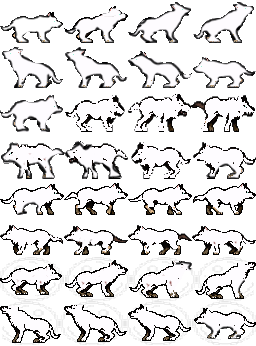
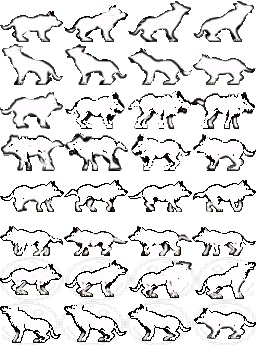
update readme file, enemy png & enemyclass

diff --git a/NYP_Framework/App/Source/Scene2D/SnowEnemy2DSWB.cpp b/NYP_Framework/App/Source/Scene2D/SnowEnemy2DSWB.cpp
@@ -93,7 +93,7 @@ bool SnowEnemy2DSWB::Init(void)
 	// Get the handler to the CSettings instance
 	cSettings = CSettings::GetInstance();
 	// Get the handler to the Camera2D instance
-//	camera2D = Camera2D::GetInstance();
+	camera2D = Camera2D::GetInstance();
 
 	// Get the handler to the CSoundController instance
 	cSoundController = CSoundController::GetInstance();
@@ -116,6 +116,8 @@ bool SnowEnemy2DSWB::Init(void)
 
 	// Create and initialise the CPlayer2D
 	cPlayer2D = CPlayer2D::GetInstance();
+
+	cInventoryManagerPlanet = CInventoryManagerPlanet::GetInstance();
 
 	glGenVertexArrays(1, &VAO);
 	glBindVertexArray(VAO);
@@ -441,43 +443,21 @@ void SnowEnemy2DSWB::Render(void)
 	unsigned int colorLoc = glGetUniformLocation(CShaderManager::GetInstance()->activeShader->ID, "runtimeColour");
 	glUniformMatrix4fv(transformLoc, 1, GL_FALSE, glm::value_ptr(transform));
 
+
 	transform = glm::mat4(1.0f); // make sure to initialize matrix to identity matrix first
-	//transform = glm::translate(transform, glm::vec3(vec2UVCoordinate.x,
-	//	vec2UVCoordinate.y,
-	//	0.0f));
-	//// Update the shaders with the latest transform
-	//glUniformMatrix4fv(transformLoc, 1, GL_FALSE, glm::value_ptr(transform));
-	//glUniform4fv(colorLoc, 1, glm::value_ptr(runtimeColour));
+	glm::vec2 offset = glm::i32vec2(float(cSettings->NUM_TILES_XAXIS / 2.0f), float(cSettings->NUM_TILES_YAXIS / 2.0f));
+	glm::vec2 cameraPos = camera2D->getPos();
 
-	//// Get the texture to be rendered
-	//glBindTexture(GL_TEXTURE_2D, iTextureID);
+	glm::vec2 IndexPos = vec2Index;
 
-	//// Render the tile
-	////glDrawElements(GL_TRIANGLES, 6, GL_UNSIGNED_INT, 0);
-	////quadMesh->Render();
+	glm::vec2 actualPos = IndexPos - cameraPos + offset;
+	actualPos = cSettings->ConvertIndexToUVSpace(actualPos) * camera2D->getZoom();
+	actualPos.x += i32vec2NumMicroSteps.x * cSettings->MICRO_STEP_XAXIS;
+	actualPos.y += i32vec2NumMicroSteps.y * cSettings->MICRO_STEP_YAXIS;
 
-	////CS: Render the animated sprite
-	//animatedSprites->Render();
+	transform = glm::translate(transform, glm::vec3(actualPos.x, actualPos.y, 0.f));
+	transform = glm::scale(transform, glm::vec3(camera2D->getZoom()));
 
-	//glBindVertexArray(0);
-
-	//transform = glm::mat4(1.0f); // make sure to initialize matrix to identity matrix first
-	//glm::vec2 offset = glm::i32vec2(float(cSettings->NUM_TILES_XAXIS / 2.0f), float(cSettings->NUM_TILES_YAXIS / 2.0f));
-	//glm::vec2 cameraPos = camera2D->getPos();
-
-	//glm::vec2 IndexPos = vec2Index;
-
-	//glm::vec2 actualPos = IndexPos - cameraPos + offset;
-	//actualPos = cSettings->ConvertIndexToUVSpace(actualPos) * camera2D->getZoom();
-	//actualPos.x += vec2NumMicroSteps.x * cSettings->MICRO_STEP_XAXIS;
-	//actualPos.y += vec2NumMicroSteps.y * cSettings->MICRO_STEP_YAXIS;
-
-	//transform = glm::translate(transform, glm::vec3(actualPos.x, actualPos.y, 0.f));
-	//transform = glm::scale(transform, glm::vec3(camera2D->getZoom()));
-
-	transform = glm::translate(transform, glm::vec3(vec2UVCoordinate.x,
-		vec2UVCoordinate.y,
-		0.0f));
 
 	// Update the shaders with the latest transform
 	glUniformMatrix4fv(transformLoc, 1, GL_FALSE, glm::value_ptr(transform));
@@ -492,7 +472,6 @@ void SnowEnemy2DSWB::Render(void)
 	animatedSprites->Render();
 
 	glBindTexture(GL_TEXTURE_2D, 0);
-
 	////render enemy ammo
 	//for (std::vector<CJEAmmoVT*>::iterator it = ammoList.begin(); it != ammoList.end(); ++it)
 	//{
@@ -861,6 +840,8 @@ bool SnowEnemy2DSWB::InteractWithPlayer(void)
 		else {
 			animatedSprites->PlayAnimation("biteL", -1, 1.0f);
 		}
+		cInventoryItemPlanet = cInventoryManagerPlanet->GetItem("Health");
+		cInventoryItemPlanet->Remove(1);
 		return true;
 	}
 	return false;

diff --git a/NYP_Framework/App/Source/Scene2D/SnowEAmmo.cpp b/NYP_Framework/App/Source/Scene2D/SnowEAmmo.cpp
@@ -26,7 +26,7 @@ CSEAmmo::CSEAmmo()
 	: cMap2D(NULL)
 	, cKeyboardController(NULL)
 	, animatedSprites(NULL)
-//	, camera2D(NULL)
+	, camera2D(NULL)
 	, runtimeColour(glm::vec4(1.0f))
 {
 	transform = glm::mat4(1.0f); // make sure to initialize matrix to identity matrix first
@@ -217,22 +217,22 @@ void CSEAmmo::Render(void)
 	//glBindTexture(GL_TEXTURE_2D, 0);
 
 	transform = glm::mat4(1.0f); // make sure to initialize matrix to identity matrix first
-	//glm::vec2 offset = glm::i32vec2(float(cSettings->NUM_TILES_XAXIS / 2.0f), float(cSettings->NUM_TILES_YAXIS / 2.0f));
-	//glm::vec2 cameraPos = camera2D->getPos();
+	glm::vec2 offset = glm::i32vec2(float(cSettings->NUM_TILES_XAXIS / 2.0f), float(cSettings->NUM_TILES_YAXIS / 2.0f));
+	glm::vec2 cameraPos = camera2D->getPos();
 
-	//glm::vec2 IndexPos = vec2Index;
+	glm::vec2 IndexPos = vec2Index;
 
-	//glm::vec2 actualPos = IndexPos - cameraPos + offset;
-	//actualPos = cSettings->ConvertIndexToUVSpace(actualPos) * camera2D->getZoom();
-	//actualPos.x += vec2NumMicroSteps.x * cSettings->MICRO_STEP_XAXIS;
-	//actualPos.y += vec2NumMicroSteps.y * cSettings->MICRO_STEP_YAXIS;
+	glm::vec2 actualPos = IndexPos - cameraPos + offset;
+	actualPos = cSettings->ConvertIndexToUVSpace(actualPos) * camera2D->getZoom();
+	actualPos.x += vec2NumMicroSteps.x * cSettings->MICRO_STEP_XAXIS;
+	actualPos.y += vec2NumMicroSteps.y * cSettings->MICRO_STEP_YAXIS;
 
-	//transform = glm::translate(transform, glm::vec3(actualPos.x, actualPos.y, 0.f));
-	//transform = glm::scale(transform, glm::vec3(camera2D->getZoom()));
+	transform = glm::translate(transform, glm::vec3(actualPos.x, actualPos.y, 0.f));
+	transform = glm::scale(transform, glm::vec3(camera2D->getZoom()));
 
-	transform = glm::translate(transform, glm::vec3(vec2UVCoordinate.x,
-		vec2UVCoordinate.y,
-		0.0f));
+	//transform = glm::translate(transform, glm::vec3(vec2UVCoordinate.x,
+	//	vec2UVCoordinate.y,
+	//	0.0f));
 
 	// Update the shaders with the latest transform
 	glUniformMatrix4fv(transformLoc, 1, GL_FALSE, glm::value_ptr(transform));

diff --git a/NYP_Framework/App/Source/Scene2D/SnowEnemy2DSWB.h b/NYP_Framework/App/Source/Scene2D/SnowEnemy2DSWB.h
@@ -170,6 +170,12 @@ protected:
 	// Handler to the CSoundController
 	CSoundController* cSoundController;
 
+	// Inventory Manager
+	CInventoryManagerPlanet* cInventoryManagerPlanet;
+
+	// Inventory Item
+	CInventoryItemPlanet* cInventoryItemPlanet;
+
 	// Current FSM
 	FSM sCurrentFSM;
 
